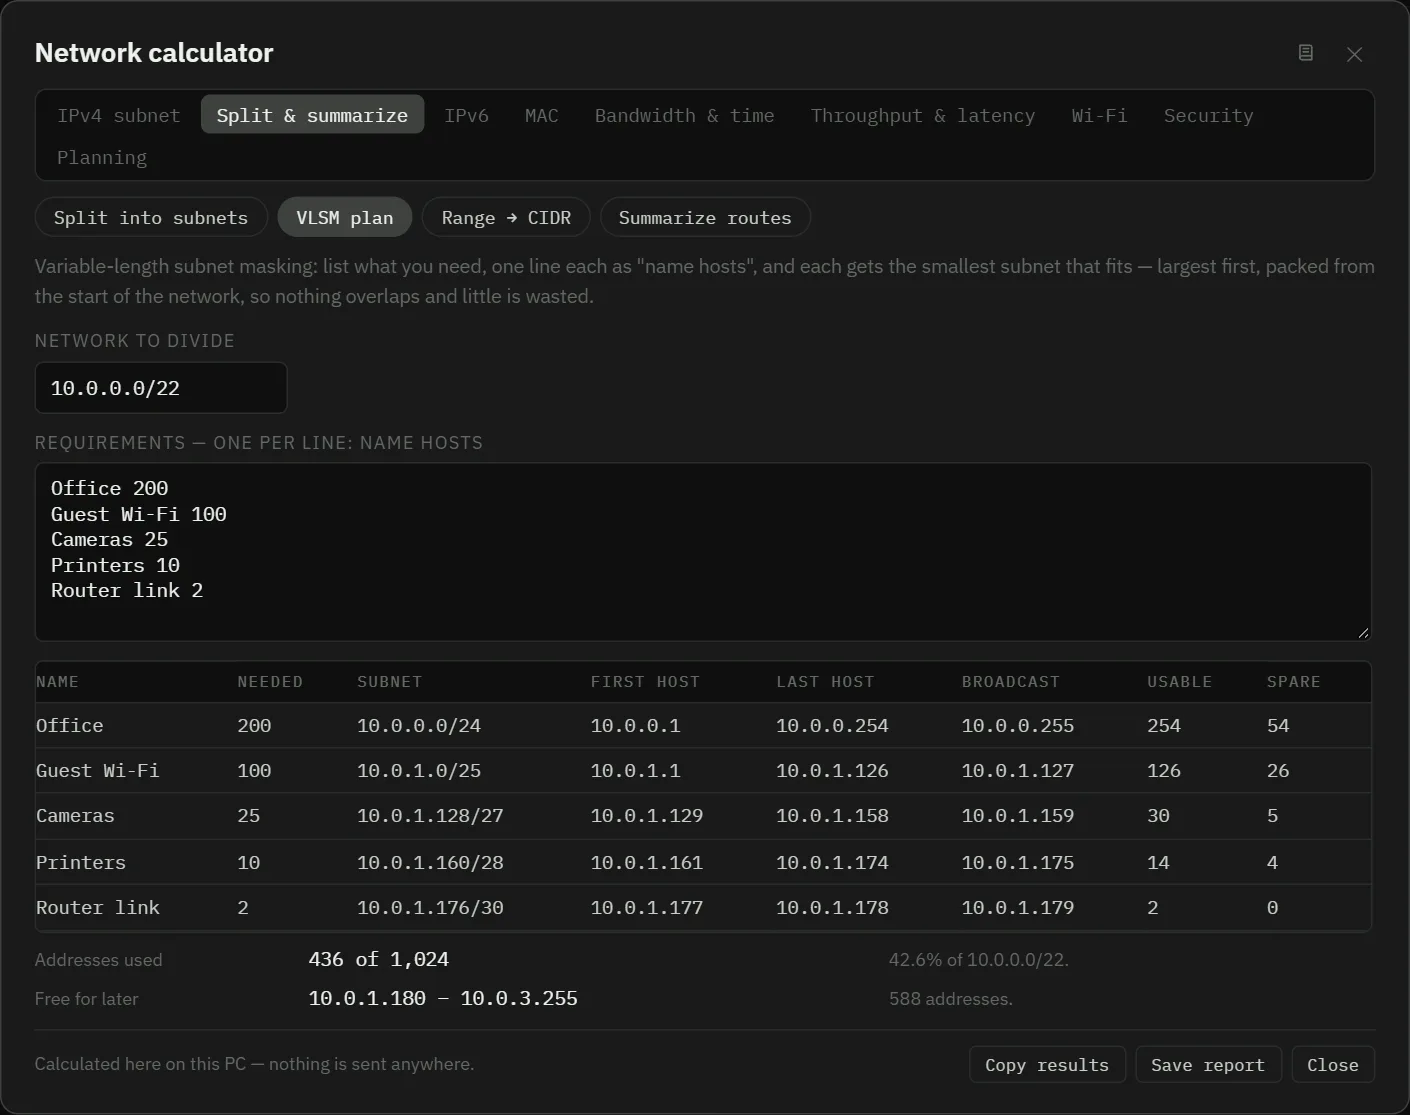
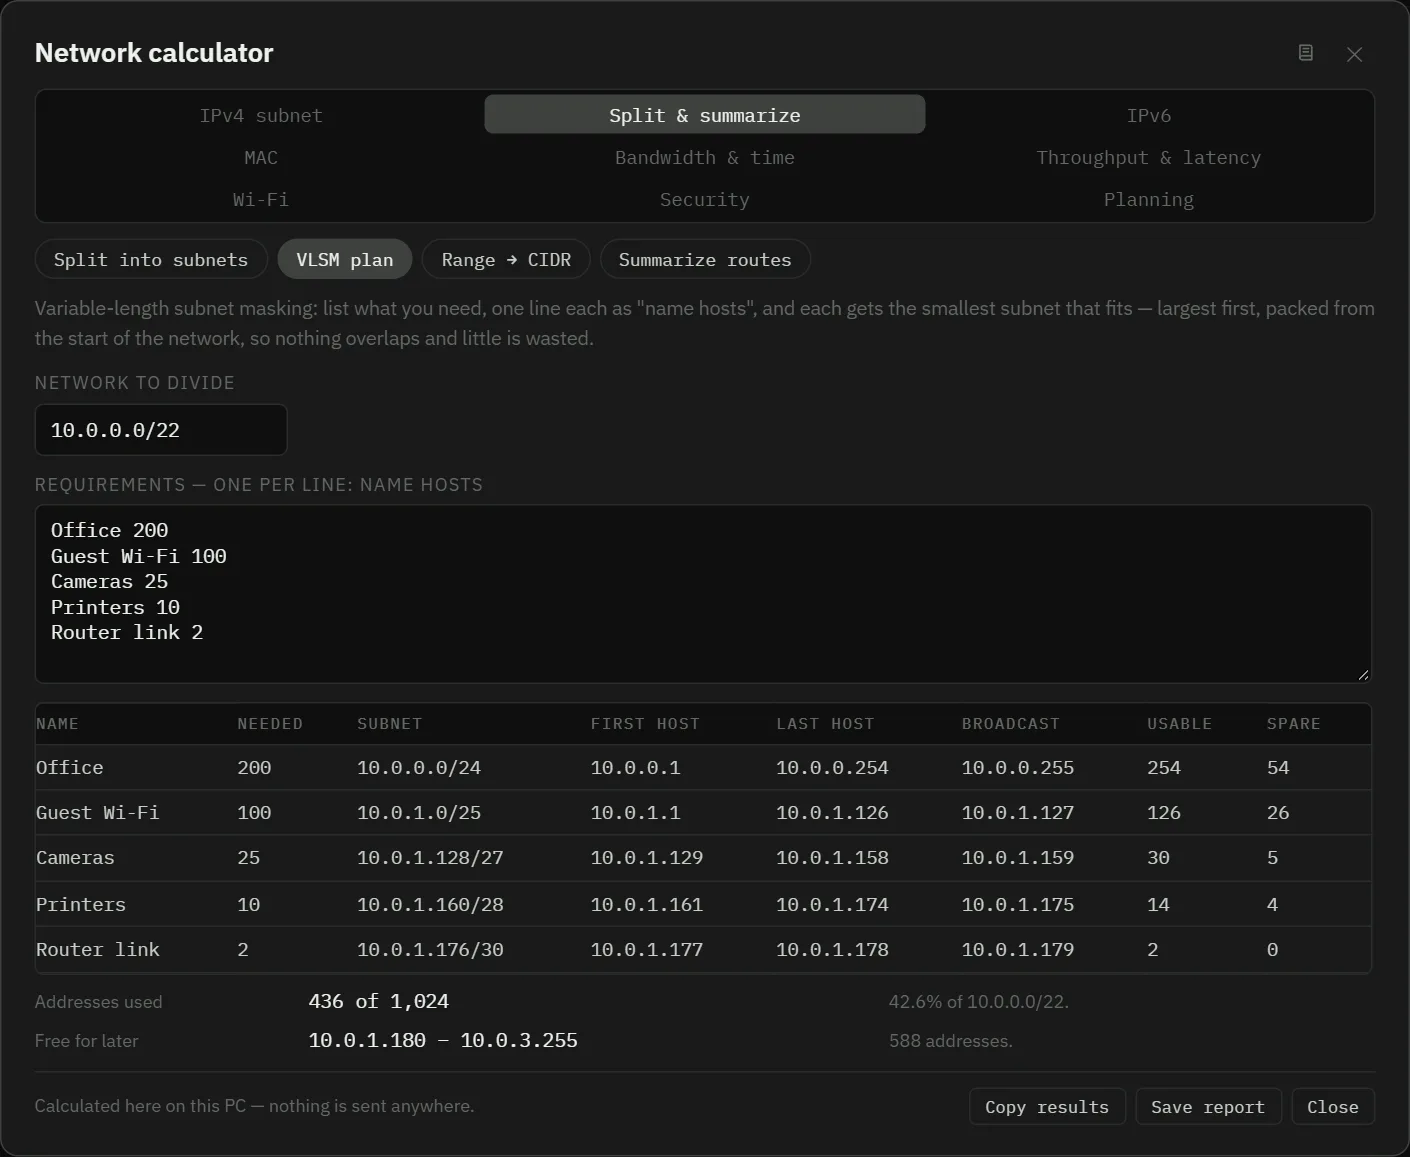
1.27.2: calculator tabs in an even 3 × 3 grid

diff --git a/public/manual.html b/public/manual.html
@@ -277,7 +277,7 @@
 
 <h3 id="s-header">Header &amp; search</h3>
 <div class="ui">
-  <div>&gt;_ NetDeck · v<span class="nd-version">1.27.1</span></div><div>The app name and the version you are running (hover it to see which edition: desktop app, local server or hosted reference). Quote the version when reporting a problem; every edition built from the same source shows the same number.</div>
+  <div>&gt;_ NetDeck · v<span class="nd-version">1.27.2</span></div><div>The app name and the version you are running (hover it to see which edition: desktop app, local server or hosted reference). Quote the version when reporting a problem; every edition built from the same source shows the same number.</div>
   <div>Search box</div><div>Type anything — a command name (<code>ping</code>), part of its syntax (<code>-ano</code>), or a word from its purpose (<code>cache</code>). The cards filter as you type. Press <kbd>/</kbd> anywhere on the page to jump into the box.</div>
   <div>Jump to… <kbd>Ctrl</kbd>+<kbd>K</kbd></div><div>The command palette. A pop-up search over every command <em>and</em> playbook. With nothing typed it lists your pinned items first, then the commands and playbooks you ran most recently, then every playbook and every command, so it doubles as a scrollable index; typing narrows it. Arrow keys move, <kbd>Enter</kbd> jumps straight to that card (clearing any filters that were hiding it) and puts the cursor in its host box or on its run button, so <kbd>Ctrl</kbd>+<kbd>K</kbd>, "trac", <kbd>Enter</kbd>, type a host, <kbd>Enter</kbd> runs a traceroute without touching the mouse.</div>
   <div>Calculator icon</div><div>Opens the <a href="#calculator">network calculator</a>: subnets, IPv6, MAC addresses, bandwidth and latency, Wi-Fi planning, certificate expiry, password strength, hashes and more — all worked out in the page.</div>
@@ -525,7 +525,7 @@
 
 <h2 id="calculator">Network calculator</h2>
 <p>The calculator icon beside the theme button opens a popup with nine tools for the arithmetic of networking: working out subnets and masks, splitting and combining networks, decoding IPv6 and MAC addresses, estimating bandwidth, throughput and latency, planning Wi-Fi, and a few security and infrastructure calculations. You can also reach any tool from the command palette: press <kbd>Ctrl</kbd>+<kbd>K</kbd> and type <em>calc</em>, <em>subnet</em>, <em>VLSM</em>, <em>password</em>… Everything is calculated inside the page — nothing is sent anywhere — so it works the same in the hosted edition. A few tools can also read real values from this PC (your own address and mask, the Wi-Fi networks around you, a site's certificate); those buttons appear only when NetDeck can run commands.</p>
-<figure class="shot"><img src="manual-img/calc-ipv4.webp" width="1410" height="1766" alt="The network calculator on the IPv4 subnet tab" loading="lazy"><figcaption>The IPv4 tab for 192.168.1.100/26: the subnet, then its class, then the address in binary with the network, subnet and host bits colored — each row with a note saying what it means.</figcaption></figure>
+<figure class="shot"><img src="manual-img/calc-ipv4.webp" width="1410" height="1808" alt="The network calculator on the IPv4 subnet tab" loading="lazy"><figcaption>The IPv4 tab for 192.168.1.100/26: the subnet, then its class, then the address in binary with the network, subnet and host bits colored — each row with a note saying what it means.</figcaption></figure>
 <div class="ui">
   <div>Tabs</div><div>One per tool: <a href="#nc-ipv4">IPv4 subnet</a>, <a href="#nc-split">Split &amp; summarize</a>, <a href="#nc-ipv6">IPv6</a>, <a href="#nc-mac">MAC</a>, <a href="#nc-bandwidth">Bandwidth &amp; time</a>, <a href="#nc-throughput">Throughput &amp; latency</a>, <a href="#nc-wifi">Wi-Fi</a>, <a href="#nc-security">Security</a> and <a href="#nc-planning">Planning</a>. Tools that do several things have a row of round buttons under the tabs to choose the mode.</div>
   <div>The line under the tabs</div><div>What the current tool expects, in a sentence or two — the step-by-step guide for that tool.</div>
@@ -646,7 +646,7 @@
 <p>Cut a network into equal pieces, chosen by the number of subnets, the hosts each must hold, or the new prefix length. The result lists every subnet — network, first and last host, broadcast and size — up to the first 1,024. Subnets come in powers of two, so asking for 5 gives 8.</p>
 <h4>VLSM plan</h4>
 <p>List what you need, one line each as <em>name</em> and <em>hosts</em> ("Guest Wi-Fi 100"). Each gets the smallest subnet that holds it, allocated largest first from the start of the network, aligned on its own size — the method described in <a href="#nc-subnetting">Subnetting</a>. The table shows each subnet and how many addresses it has to spare, and the summary says how much of the network is used and which range is still free. If the plan does not fit, the calculator says which requirement ran out of room and by how much.</p>
-<figure class="shot"><img src="manual-img/calc-vlsm.webp" width="1410" height="1115" alt="The VLSM plan in the network calculator" loading="lazy"><figcaption>Five requirements packed into 10.0.0.0/22, largest first: the office gets a /24, guest Wi-Fi a /25, and so on down to a /30 for the router link — 436 of 1,024 addresses used, the rest free in one block.</figcaption></figure>
+<figure class="shot"><img src="manual-img/calc-vlsm.webp" width="1410" height="1157" alt="The VLSM plan in the network calculator" loading="lazy"><figcaption>Five requirements packed into 10.0.0.0/22, largest first: the office gets a /24, guest Wi-Fi a /25, and so on down to a /30 for the router link — 436 of 1,024 addresses used, the rest free in one block.</figcaption></figure>
 <h4>Range → CIDR</h4>
 <p>Give a first and last address and get the fewest CIDR blocks that cover exactly that range. A block must start on a multiple of its own size, so an arbitrary range — 192.168.1.10 to 192.168.1.100, say — needs several blocks of decreasing and increasing size. Useful for firewall rules and route lists that only accept CIDR.</p>
 <h4>Summarize routes</h4>
@@ -1972,7 +1972,7 @@ BUILTIN\Administrators    Alias    S-1-5-32-544    Group used for deny only</pre
 <p class="foot">NetDeck runs only the commands listed as runnable, with the exact arguments shown, on your own machine. Commands marked copy-only are for you to run in a terminal when you've decided that's what you want.</p>
 <!-- about:start (generated by tools/licenses.js) -->
 <h2 id="about">About &amp; license</h2>
-<p>NetDeck <span class="nd-version">1.27.1</span> — a network &amp; system command reference with live execution and guided playbooks. Source code, releases and issue tracker: <a href="https://github.com/DavidKFisk/netdeck">github.com/DavidKFisk/netdeck</a>.</p>
+<p>NetDeck <span class="nd-version">1.27.2</span> — a network &amp; system command reference with live execution and guided playbooks. Source code, releases and issue tracker: <a href="https://github.com/DavidKFisk/netdeck">github.com/DavidKFisk/netdeck</a>.</p>
 
 <h3 id="license">License</h3>
 <p>NetDeck is free software under the MIT License. In short: you may use, copy, change and pass it on, including commercially, as long as the copyright notice and this license text go with it — and it comes with no warranty of any kind. The full text:</p>

diff --git a/public/styles.css b/public/styles.css
@@ -1238,8 +1238,9 @@ body[data-mode="static"] .live-only { display: none !important; }
 .calc-head-tools .icon-btn { width: 28px; height: 28px; }
 .calc-x { font-size: 14px; }
 .calc-x:hover, #calc-manual:hover { color: var(--bright); }
-.calc-tabs { display: flex; flex-wrap: wrap; align-self: stretch; margin: 0; }
-.calc-tabs .vtab { padding: 5px 11px; }
+/* nine tools in an even 3 × 3 grid: every tab the same width, labels centered */
+.calc-tabs { display: grid; grid-template-columns: repeat(3, minmax(0, 1fr)); align-self: stretch; margin: 0; }
+.calc-tabs .vtab { padding: 5px 8px; text-align: center; }
 .calc-modes { margin: 0; }
 .calc-modes[hidden] { display: none; }
 .calc-body { flex: 1; min-height: 0; overflow: auto; display: flex; flex-direction: column; gap: 12px; padding-right: 2px; }

diff --git a/public/version.js b/public/version.js
@@ -1,2 +1,2 @@
 // Generated by tools/bump.js — do not edit; run "node tools/bump.js" instead.
-window.NETDECK_VERSION = '1.27.1';
+window.NETDECK_VERSION = '1.27.2';
